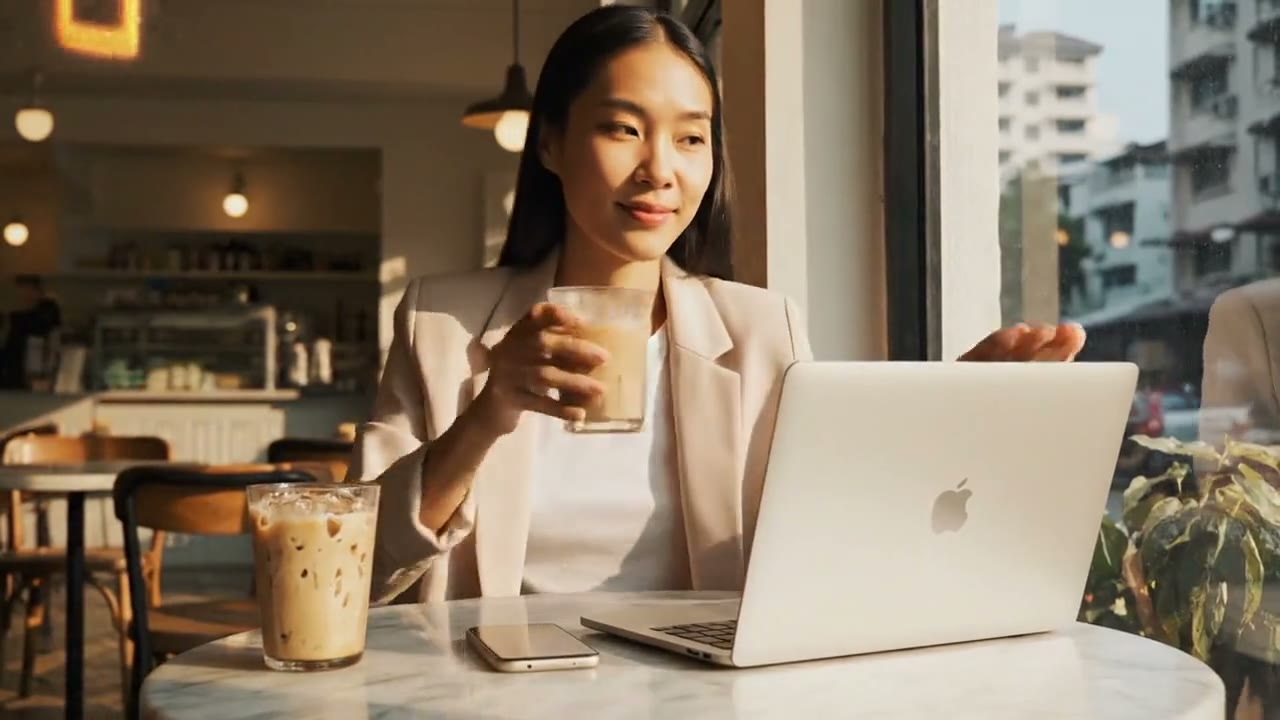
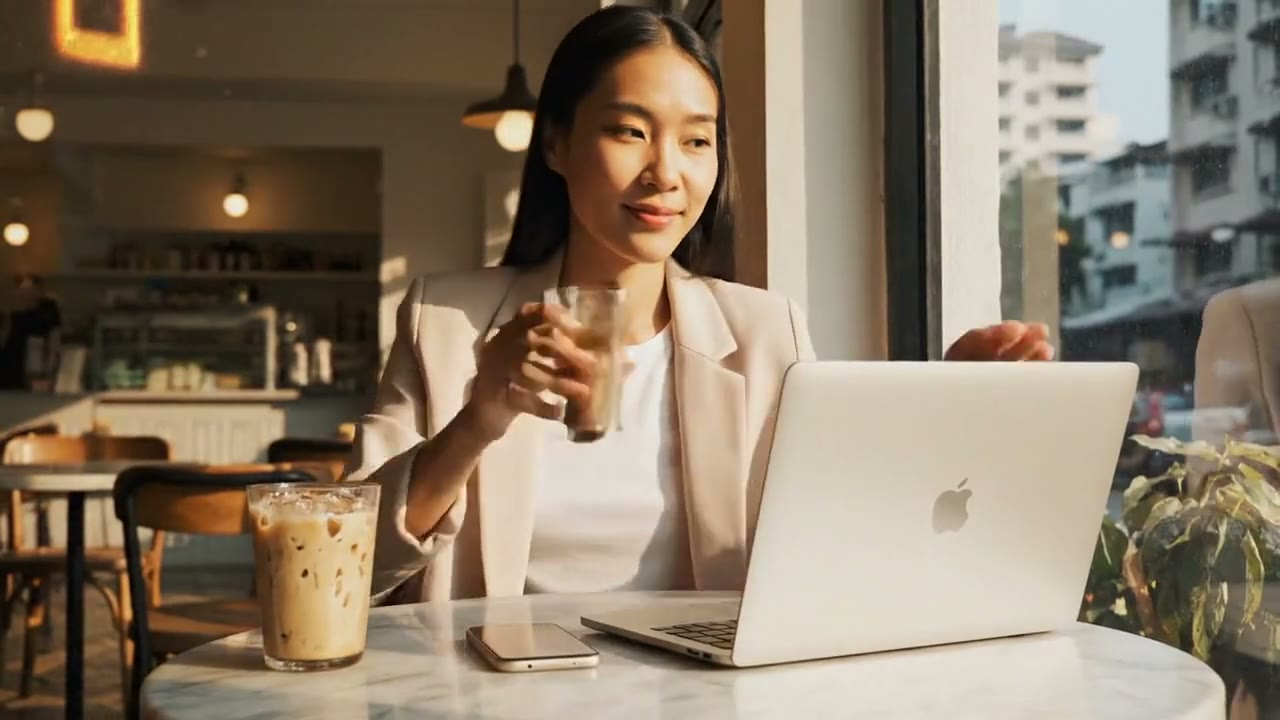
Hero: forward (non-boomerang) video loop + fixed-height rotating clause
- Re-cut hero video to play forward through the natural ending (drink latte ->
  close laptop -> settle) with a short dissolve loop, instead of the back-and-forth
  boomerang. Bump asset cache-buster to v=3.
- Fix the rotating headline clause: reserve a fixed two-line box (em relative to the
  headline font) so the "For business owners who" title and everything below never
  shift when the phrase length changes. Add base opacity:1 as a reduced-motion safety.

diff --git a/client/src/pages/HeroStep.tsx b/client/src/pages/HeroStep.tsx
@@ -133,13 +133,13 @@ export default function HeroStep({ onComplete, onSignOut, trialDaysLeft, authed 
         {/* Background video */}
         <video
           autoPlay={!reduceMotion} muted loop playsInline preload="metadata"
-          poster="/hero-woman-poster.jpg?v=2"
+          poster="/hero-woman-poster.jpg?v=3"
           aria-hidden="true"
           disablePictureInPicture
           style={{ position: "absolute", inset: 0, width: "100%", height: "100%", objectFit: "cover", objectPosition: isMobile ? "center 32%" : "center 34%" }}
         >
-          <source src="/hero-woman.webm?v=2" type="video/webm" />
-          <source src="/hero-woman.mp4?v=2" type="video/mp4" />
+          <source src="/hero-woman.webm?v=3" type="video/webm" />
+          <source src="/hero-woman.mp4?v=3" type="video/mp4" />
         </video>
 
         {/* Parchment legibility overlay — keeps the left copy readable, lets her show on the right */}
@@ -495,13 +495,16 @@ function RotatingHero({ isMobile }: { isMobile: boolean }) {
       <span style={{ display: "block", fontSize: big, fontWeight: 600, color: "var(--ink)", letterSpacing: "-0.02em", lineHeight: 1.05 }}>
         For business owners who
       </span>
-      {/* Rotating clause — only this changes; reserve two lines so layout never jumps */}
-      <span style={{ display: "block", minHeight: isMobile ? "2.3em" : "2.4em", overflow: "hidden" }}>
+      {/* Rotating clause — FIXED two-line box. Height is in `em` relative to the
+          headline font (fontSize set here), so it always reserves exactly two lines
+          regardless of phrase length. The title above and everything below never move;
+          only this text changes. */}
+      <span style={{ display: "block", fontSize: big, height: "2.2em", overflow: "hidden" }}>
         <span
           key={i}
           style={{
             display: "inline-block", fontSize: big, fontWeight: 600, color: "var(--sage-strong)",
-            letterSpacing: "-0.02em", lineHeight: 1.1, animation: "rise 0.5s ease both",
+            letterSpacing: "-0.02em", lineHeight: 1.1, opacity: 1, animation: "rise 0.5s ease both",
           }}
         >
           {PAINS[i]}